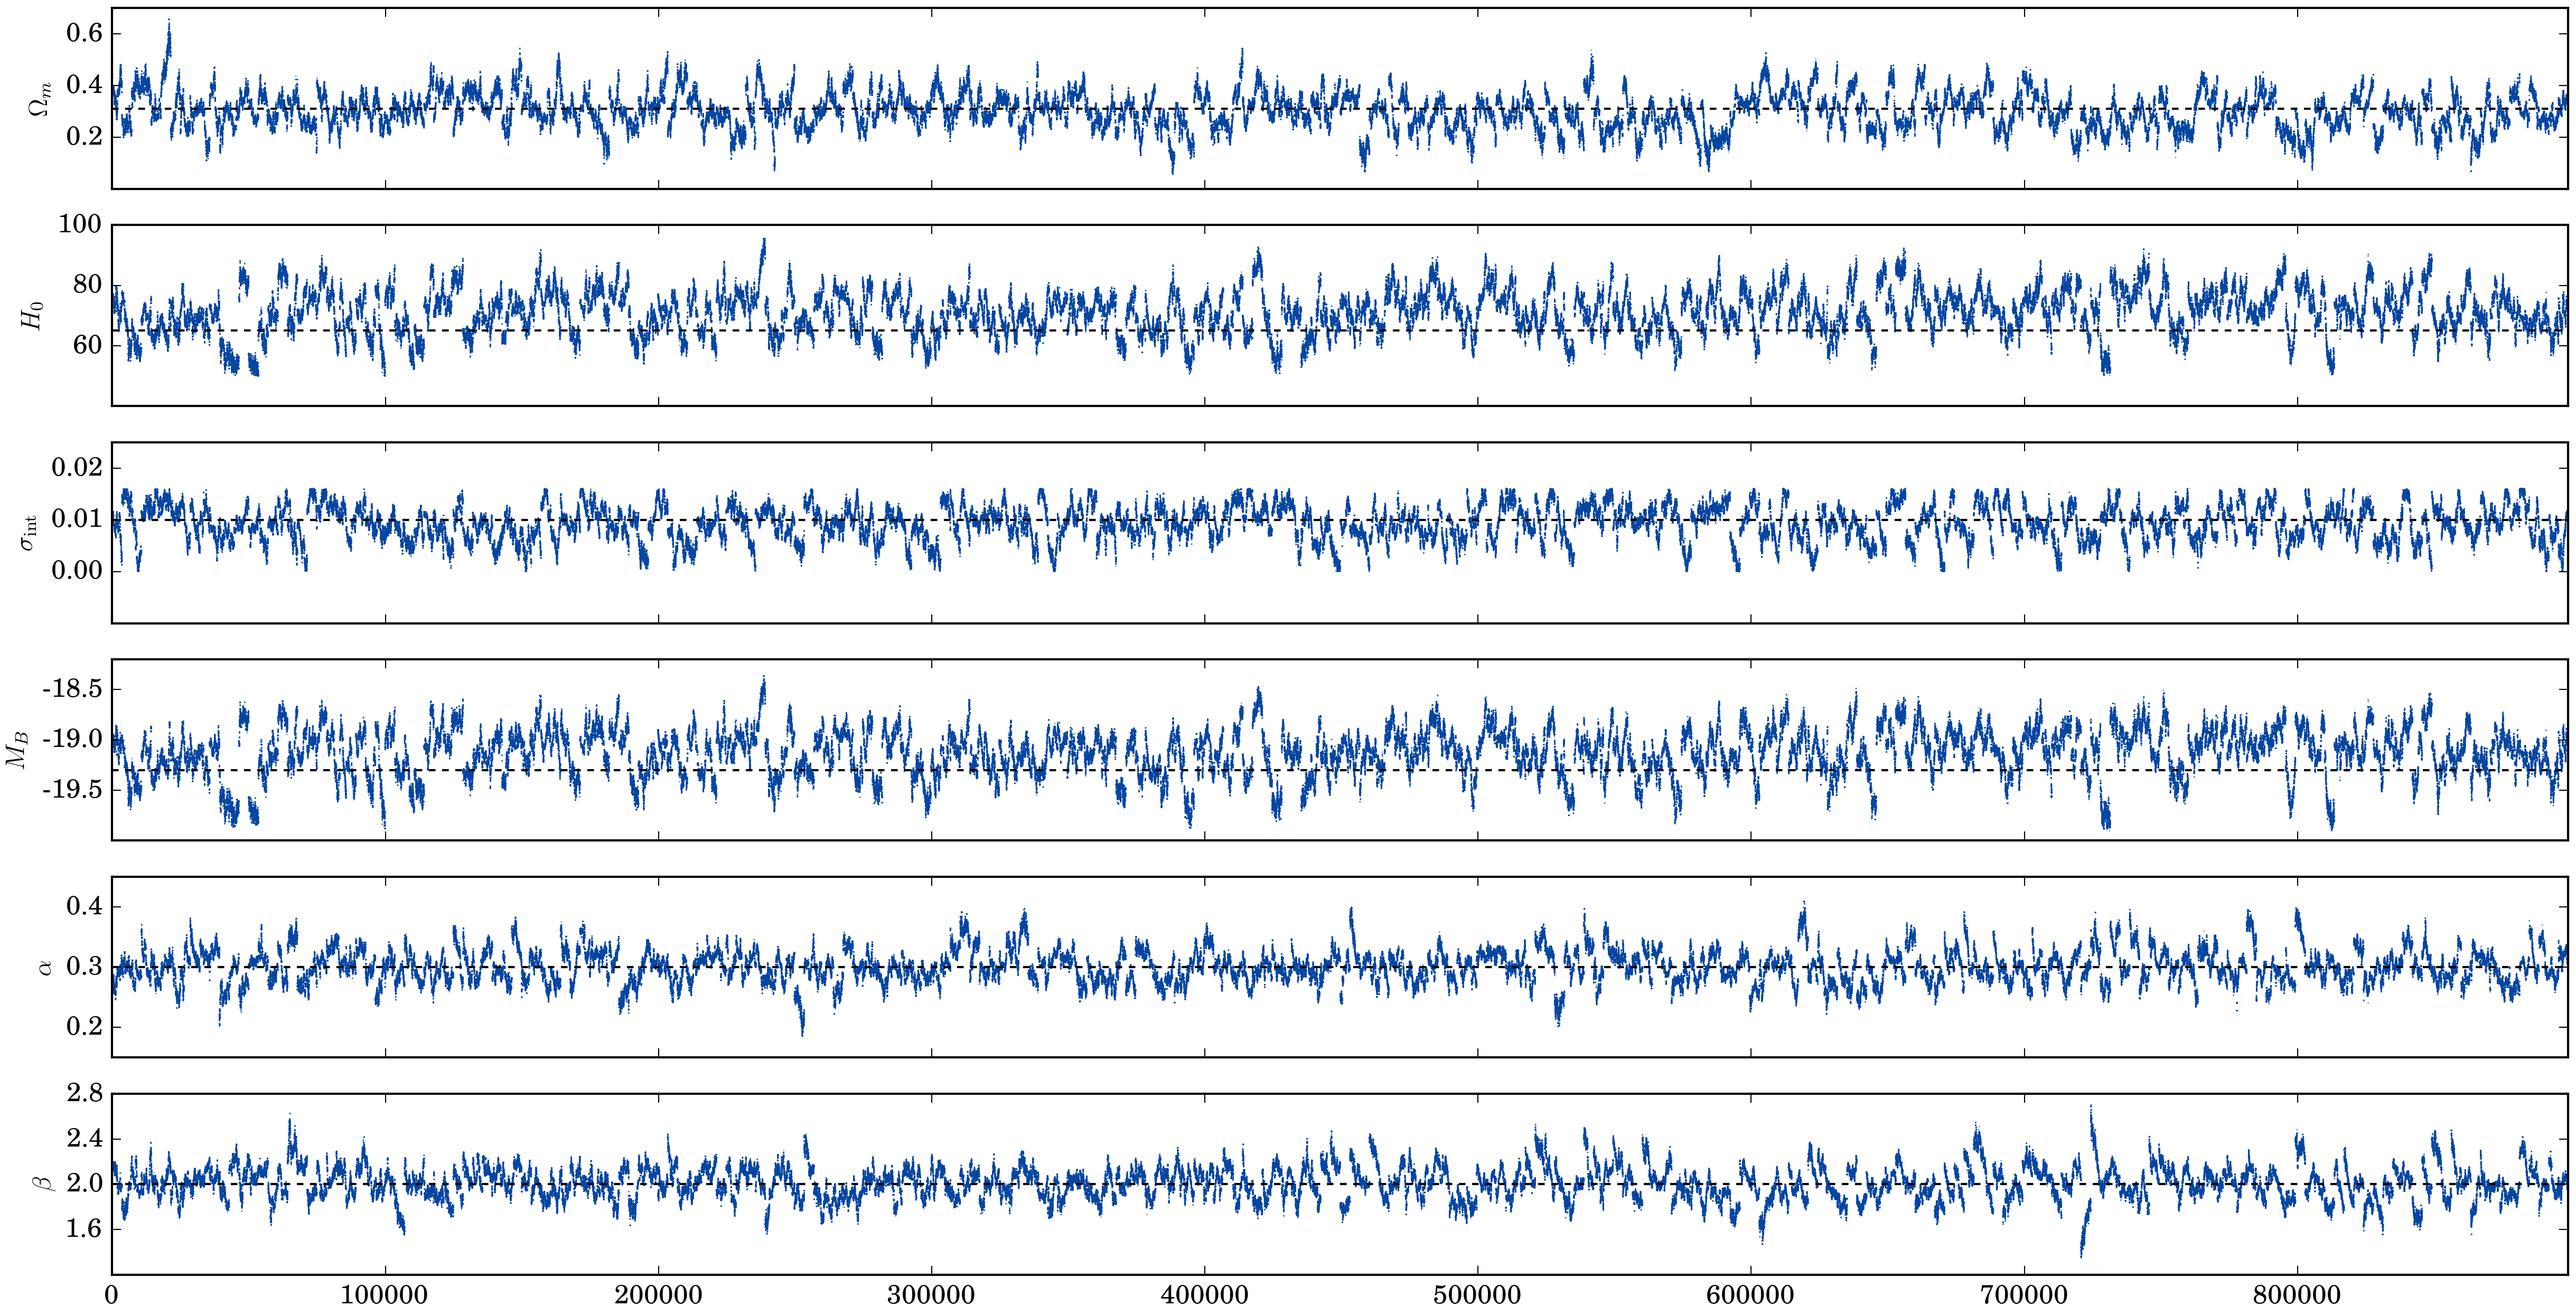
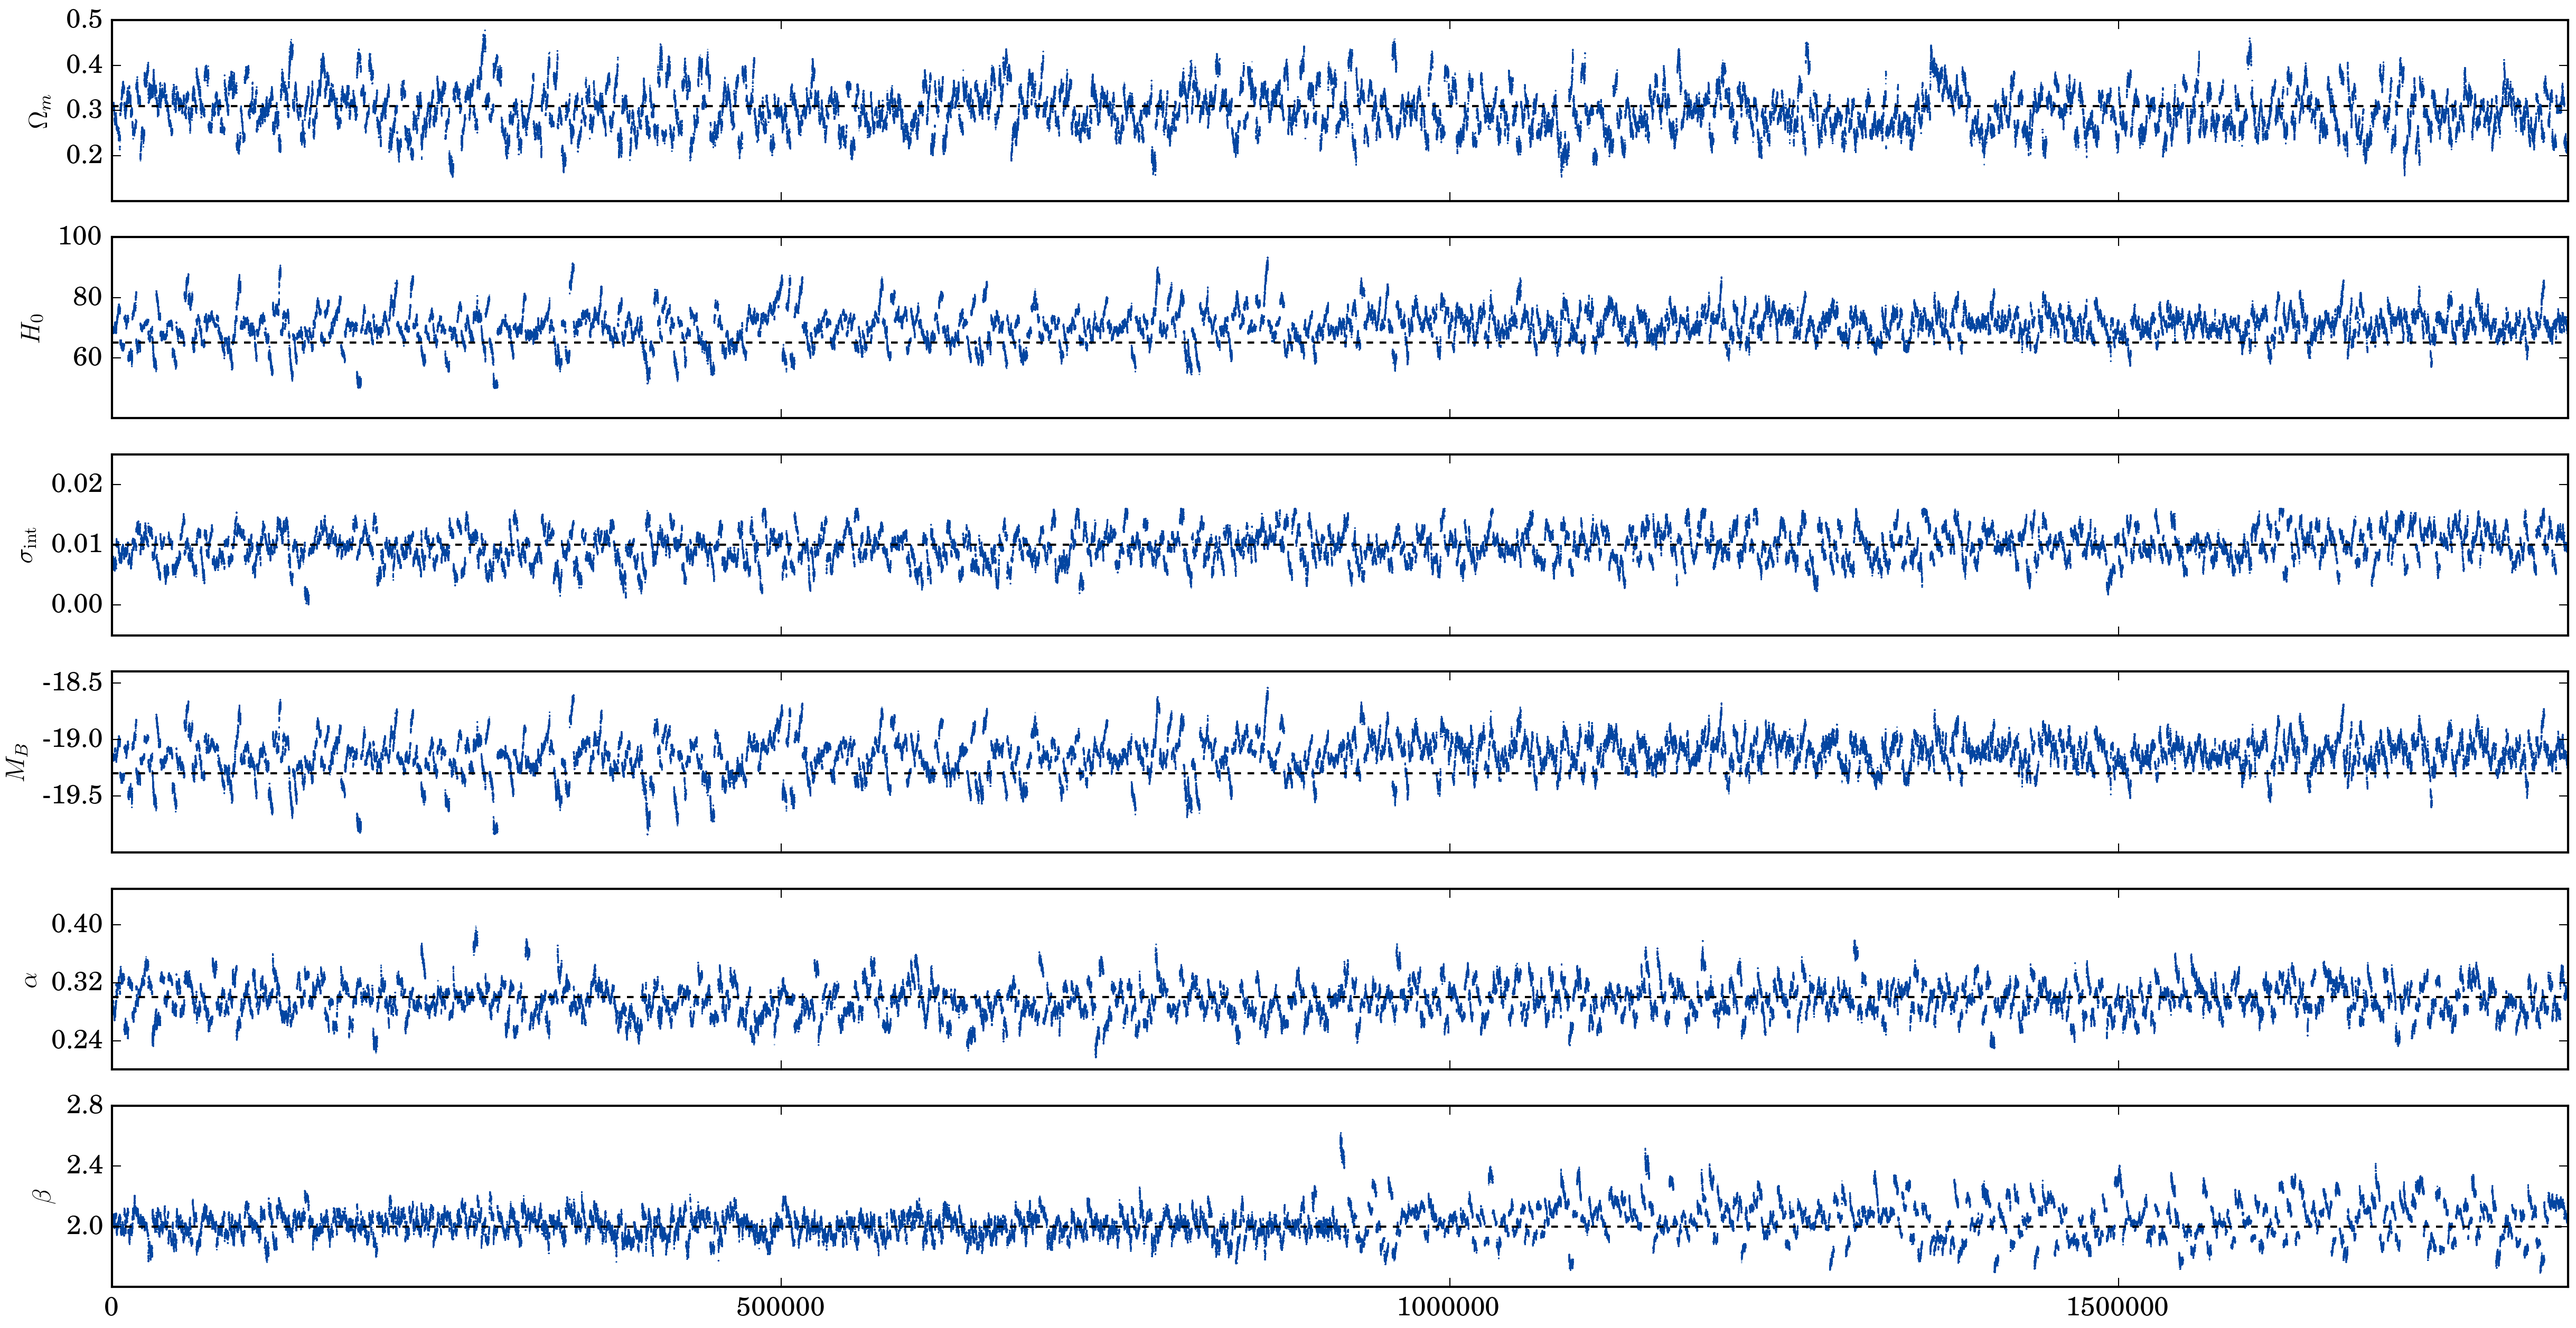
Updating to 100nova

diff --git a/dessn/models/a_pure_snia/a_model.py b/dessn/models/a_pure_snia/a_model.py
@@ -1,18 +1,18 @@
 import logging
 import os
 import sys
+import numpy as np
 
-from dessn.models.b_mixed_types.edges import ToLightCurve, ToLuminosity, ToRate, ToRedshift, ToType
-from dessn.models.b_mixed_types.latent import Luminosity, Redshift, Type, Colour, PeakTime, Stretch
-from dessn.models.b_mixed_types.observed import ObservedRedshift, ObservedType, ObservedLightCurves
-from dessn.models.b_mixed_types.underlying import SupernovaRate, OmegaM, Hubble, SupernovaIaDist1, \
-    SupernovaIaDist2, SupernovaIIDist1, SupernovaIIDist2
+from dessn.models.a_pure_snia.edges import ToLightCurve, ToLuminosity, ToRedshift
+from dessn.models.a_pure_snia.latent import Luminosity, Redshift, Colour, PeakTime, Stretch
+from dessn.models.a_pure_snia.observed import ObservedRedshift, ObservedLightCurves
+from dessn.models.a_pure_snia.underlying import OmegaM, Hubble, SupernovaIaDist1, SupernovaIaDist2
 
 from dessn.framework.model import Model
-from dessn.models.b_mixed_types.simulation import Simulation
+from dessn.models.a_pure_snia.simulation import Simulation
 
 
-class ToyModel(Model):
+class PureModel(Model):
     """ A modified mixed_types framework. The likelihood surfaces and PGM framework are given below.
 
     Probabilities and framework details are recorded in the framework parameter and edge classes.
@@ -29,14 +29,12 @@ class ToyModel(Model):
 
     """
     def __init__(self, observations):
-        super(ToyModel, self).__init__("ToyModel")
+        super(PureModel, self).__init__("ToyModel")
 
         z_o = observations["z_o"]
         lcs_o = observations["lcs_o"]
-        type_o = observations["type_o"]
         n = len(z_o)
 
-        self.add_node(ObservedType(type_o))
         self.add_node(ObservedRedshift(z_o))
         self.add_node(ObservedLightCurves(lcs_o))
 
@@ -44,22 +42,16 @@ class ToyModel(Model):
         self.add_node(Hubble())
         self.add_node(SupernovaIaDist1())
         self.add_node(SupernovaIaDist2())
-        self.add_node(SupernovaIIDist1())
-        self.add_node(SupernovaIIDist2())
-        self.add_node(SupernovaRate())
 
         self.add_node(Luminosity(n=n))
         self.add_node(Stretch(n=n))
         self.add_node(PeakTime(n=n))
         self.add_node(Colour(n=n))
         self.add_node(Redshift(n=n))
-        self.add_node(Type(n=n))
 
         self.add_edge(ToLightCurve())
         self.add_edge(ToLuminosity())
         self.add_edge(ToRedshift())
-        self.add_edge(ToRate())
-        self.add_edge(ToType())
 
         self.finalise()
 
@@ -70,25 +62,25 @@ if __name__ == "__main__":
     else:
         logging.basicConfig(level=logging.DEBUG)
     dir_name = os.path.dirname(__file__)
-    temp_dir = os.path.abspath(dir_name + "/../../temp/toyModel")
-    plot_file = os.path.abspath(dir_name + "/../../plots/toyModelChain.png")
-    walk_file = os.path.abspath(dir_name + "/../../plots/toyModelWalks.png")
+    temp_dir = os.path.abspath(dir_name + "/output/data")
+    plot_file = os.path.abspath(dir_name + "/output/surface.png")
+    walk_file = os.path.abspath(dir_name + "/output/walk.png")
 
-    vals = {"num_days": 30, "omega_m": 0.28, "H0": 72, "snIa_luminosity": -19.3, "snIa_sigma": 0.1,
-            "snII_luminosity": -18, "snII_sigma": 0.2, "sn_rate": 0.5}
+    vals = {"num_transient": 20, "omega_m": 0.5, "H0": 85, "snIa_luminosity": -19.3,
+            "snIa_sigma": 0.001}
     simulation = Simulation()
     observations, theta = simulation.get_simulation(**vals)
-    toy_model = ToyModel(observations)
-    '''
+    model = PureModel(observations)
+
     if not only_data:
         np.random.seed(102)
-        pgm_file = os.path.abspath(dir_name + "/../../plots/toyModelPGM.png")
-        fig = toy_model.get_pgm(pgm_file)'''
+        pgm_file = os.path.abspath(dir_name + "/output/pgm.png")
+        fig = model.get_pgm(pgm_file)
 
-    toy_model.fit_model(num_steps=3029, num_burn=500, temp_dir=temp_dir, save_interval=60)
+    model.fit_model(num_steps=10000, num_burn=0, temp_dir=temp_dir, save_interval=60)
 
     if not only_data:
-        chain_consumer = toy_model.get_consumer()
+        chain_consumer = model.get_consumer()
         chain_consumer.configure_general(max_ticks=4, bins=0.7)
         chain_consumer.plot_walks(display=False, filename=walk_file, figsize=(20, 10), truth=theta)
         chain_consumer.plot(display=False, filename=plot_file, figsize="grow", truth=theta)

diff --git a/dessn/models/b_mixed_types/b_model.py b/dessn/models/b_mixed_types/b_model.py
@@ -3,16 +3,17 @@ import os
 import sys
 import numpy as np
 
-from dessn.models.a_pure_snia.edges import ToLightCurve, ToLuminosity, ToRedshift
-from dessn.models.a_pure_snia.latent import Luminosity, Redshift, Colour, PeakTime, Stretch
-from dessn.models.a_pure_snia.observed import ObservedRedshift, ObservedLightCurves
-from dessn.models.a_pure_snia.underlying import OmegaM, Hubble, SupernovaIaDist1, SupernovaIaDist2
+from dessn.models.b_mixed_types.edges import ToLightCurve, ToLuminosity, ToRate, ToRedshift, ToType
+from dessn.models.b_mixed_types.latent import Luminosity, Redshift, Type, Colour, PeakTime, Stretch
+from dessn.models.b_mixed_types.observed import ObservedRedshift, ObservedType, ObservedLightCurves
+from dessn.models.b_mixed_types.underlying import SupernovaRate, OmegaM, Hubble, SupernovaIaDist1, \
+    SupernovaIaDist2, SupernovaIIDist1, SupernovaIIDist2
 
 from dessn.framework.model import Model
-from dessn.models.a_pure_snia.simulation import Simulation
+from dessn.models.b_mixed_types.simulation import Simulation
 
 
-class PureModel(Model):
+class ToyModel(Model):
     """ A modified mixed_types framework. The likelihood surfaces and PGM framework are given below.
 
     Probabilities and framework details are recorded in the framework parameter and edge classes.
@@ -29,12 +30,14 @@ class PureModel(Model):
 
     """
     def __init__(self, observations):
-        super(PureModel, self).__init__("ToyModel")
+        super(ToyModel, self).__init__("ToyModel")
 
         z_o = observations["z_o"]
         lcs_o = observations["lcs_o"]
+        type_o = observations["type_o"]
         n = len(z_o)
 
+        self.add_node(ObservedType(type_o))
         self.add_node(ObservedRedshift(z_o))
         self.add_node(ObservedLightCurves(lcs_o))
 
@@ -42,16 +45,22 @@ class PureModel(Model):
         self.add_node(Hubble())
         self.add_node(SupernovaIaDist1())
         self.add_node(SupernovaIaDist2())
+        self.add_node(SupernovaIIDist1())
+        self.add_node(SupernovaIIDist2())
+        self.add_node(SupernovaRate())
 
         self.add_node(Luminosity(n=n))
         self.add_node(Stretch(n=n))
         self.add_node(PeakTime(n=n))
         self.add_node(Colour(n=n))
         self.add_node(Redshift(n=n))
+        self.add_node(Type(n=n))
 
         self.add_edge(ToLightCurve())
         self.add_edge(ToLuminosity())
         self.add_edge(ToRedshift())
+        self.add_edge(ToRate())
+        self.add_edge(ToType())
 
         self.finalise()
 
@@ -62,25 +71,25 @@ if __name__ == "__main__":
     else:
         logging.basicConfig(level=logging.DEBUG)
     dir_name = os.path.dirname(__file__)
-    temp_dir = os.path.abspath(dir_name + "/output/pure_snia")
-    plot_file = os.path.abspath(dir_name + "/output/pure_snia.png")
-    walk_file = os.path.abspath(dir_name + "/output/pure_snia_walk.png")
+    temp_dir = os.path.abspath(dir_name + "/output/data")
+    plot_file = os.path.abspath(dir_name + "/output/surface.png")
+    walk_file = os.path.abspath(dir_name + "/output/walk.png")
 
-    vals = {"num_transient": 20, "omega_m": 0.5, "H0": 85, "snIa_luminosity": -19.3,
-            "snIa_sigma": 0.001}
+    vals = {"num_days": 30, "omega_m": 0.28, "H0": 72, "snIa_luminosity": -19.3, "snIa_sigma": 0.1,
+            "snII_luminosity": -18, "snII_sigma": 0.2, "sn_rate": 0.5}
     simulation = Simulation()
     observations, theta = simulation.get_simulation(**vals)
-    model = PureModel(observations)
+    toy_model = ToyModel(observations)
 
     if not only_data:
         np.random.seed(102)
-        pgm_file = os.path.abspath(dir_name + "/output/pure_snia.png")
-        fig = model.get_pgm(pgm_file)
+        pgm_file = os.path.abspath(dir_name + "/output/pgm.png")
+        fig = toy_model.get_pgm(pgm_file)
 
-    model.fit_model(num_steps=10000, num_burn=0, temp_dir=temp_dir, save_interval=60)
+    toy_model.fit_model(num_steps=3029, num_burn=500, temp_dir=temp_dir, save_interval=60)
 
     if not only_data:
-        chain_consumer = model.get_consumer()
+        chain_consumer = toy_model.get_consumer()
         chain_consumer.configure_general(max_ticks=4, bins=0.7)
         chain_consumer.plot_walks(display=False, filename=walk_file, figsize=(20, 10), truth=theta)
         chain_consumer.plot(display=False, filename=plot_file, figsize="grow", truth=theta)

diff --git a/dessn/models/a_pure_snia/edges.py b/dessn/models/a_pure_snia/edges.py
@@ -6,7 +6,8 @@ import sncosmo
 
 class ToLightCurve(Edge):
     def __init__(self):
-        super(ToLightCurve, self).__init__("olc", ["redshift", "luminosity", "x1", "t0", "c", "omega_m", "H0"])
+        super(ToLightCurve, self).__init__("olc", ["redshift", "luminosity", "x1",
+                                                   "t0", "c", "omega_m", "H0"])
         self.model = sncosmo.Model(source="salt2")
         self.current_h0 = None
         self.current_omega_m = None
@@ -46,24 +47,29 @@ class ToLuminosity(Edge):
     def get_log_likelihood(self, data):
         r""" Assume type is "Ia" for a Type SnIa, or "II" for SnII.
 
-        If we have a type SnIa supernova, we use the type SnIa distribution, which is modelled as a gaussian.
+        If we have a type SnIa supernova, we use the type SnIa distribution, which is
+        modelled as a gaussian.
 
         We should also note clearly that luminosity here is actually peak absolute magnitude
 
         .. math::
-            P(L|\mu_{\rm SnIa}, \sigma_{\rm SnIa}) = \frac{1}{\sqrt{2\pi}\sigma_{\rm SnIa}} \exp\left( - \frac{(L - \mu_{\rm SnIa})^2}{2\sigma_{\rm SnIa}} \right)
+            P(L|\mu_{\rm SnIa}, \sigma_{\rm SnIa}) = \frac{1}{\sqrt{2\pi}\sigma_{\rm SnIa}}
+            \exp\left( - \frac{(L - \mu_{\rm SnIa})^2}{2\sigma_{\rm SnIa}} \right)
 
-        If we have a type SnII supernova, we use the type SnII distribution, which is also modelled as a gaussian.
+        If we have a type SnII supernova, we use the type SnII distribution, which is also
+        modelled as a gaussian.
 
         .. math::
-            P(L|\mu_{\rm SnII}, \sigma_{\rm SnII}) = \frac{1}{\sqrt{2\pi}\sigma_{\rm SnII}} \exp\left( - \frac{(L - \mu_{\rm SnII})^2}{2\sigma_{\rm SnII}} \right)
+            P(L|\mu_{\rm SnII}, \sigma_{\rm SnII}) = \frac{1}{\sqrt{2\pi}\sigma_{\rm SnII}}
+            \exp\left( - \frac{(L - \mu_{\rm SnII})^2}{2\sigma_{\rm SnII}} \right)
 
         """
 
         luminosity = data["luminosity"]
         snIa_mean = data["snIa_luminosity"]
         snIa_std = data["snIa_sigma"]
-        snIa_prob = (-(luminosity - snIa_mean) * (luminosity - snIa_mean) / (2 * snIa_std * snIa_std)) - np.log(self.sqrt2pi * snIa_std)
+        snIa_prob = (-(luminosity - snIa_mean) * (luminosity - snIa_mean) /
+                     (2 * snIa_std * snIa_std)) - np.log(self.sqrt2pi * snIa_std)
         return snIa_prob
 
 

diff --git a/dessn/models/c_pure_snia_simplified/c_model.py b/dessn/models/c_pure_snia_simplified/c_model.py
@@ -67,7 +67,7 @@ if __name__ == "__main__":
     plot_file = os.path.abspath(dir_name + "/output/surface.png")
     walk_file = os.path.abspath(dir_name + "/output/walk.png")
 
-    vals = {"num_transient": 40, "omega_m": 0.31, "H0": 65, "snIa_luminosity": -19.3,
+    vals = {"num_transient": 100, "omega_m": 0.31, "H0": 65, "snIa_luminosity": -19.3,
             "snIa_sigma": 0.01, "alpha": 0.3, "beta": 2.0}
     simulation = Simulation()
     observations, theta = simulation.get_simulation(**vals)
@@ -75,10 +75,10 @@ if __name__ == "__main__":
 
     if not only_data:
         np.random.seed(102)
-        pgm_file = os.path.abspath(dir_name + "/output/pure_snia.png")
+        pgm_file = os.path.abspath(dir_name + "/output/pgm.png")
         # fig = model.get_pgm(pgm_file)
 
-    model.fit_model(num_steps=4368, num_burn=800, temp_dir=temp_dir, save_interval=60)
+    model.fit_model(num_steps=4000, num_burn=1000, temp_dir=temp_dir, save_interval=60)
 
     if not only_data:
         chain_consumer = model.get_consumer()

diff --git a/dessn/models/c_pure_snia_simplified/edges.py b/dessn/models/c_pure_snia_simplified/edges.py
@@ -18,8 +18,8 @@ class ToParameters(Edge):
         {\left| \sqrt{2 \pi \hat{C}} \right| }
     """
     def __init__(self):
-        super(ToParameters, self).__init__(["mb", "x1", "c"], ["mb_o", "x1_o", "c_o",
-                                                               "inv_cov", "cov"])
+        super(ToParameters, self).__init__(["mb_o", "x1_o", "c_o", "inv_cov", "cov"],
+                                           ["mb", "x1", "c"])
 
     def get_log_likelihood(self, data):
         ls = []

diff --git a/dessn/models/c_pure_snia_simplified/__init__.py b/dessn/models/c_pure_snia_simplified/__init__.py
@@ -12,7 +12,7 @@ modulus can then be combined with the cosmological distance modulus,
 which is given as a function of the observed supernova redshift and
 cosmological parameters. Graphically, the model is represented as follows.
 
-.. figure::     ../dessn/models/c_pure_snia_simplified/output/pure_snia.png
+.. figure::     ../dessn/models/c_pure_snia_simplified/output/pgm.png
     :align:     center
 
 

diff --git a/dessn/chain/chain.py b/dessn/chain/chain.py
@@ -830,7 +830,7 @@ class ChainConsumer(object):
         return fig, axes, params1, params2, extents
 
     def _get_bins(self):
-        proposal = [max(20, np.floor(1.2 * np.power(chain.shape[0] / chain.shape[1], 0.3)))
+        proposal = [max(20, np.floor(1.2 * np.power(chain.shape[0] / chain.shape[1], 0.25)))
                     for chain in self.chains]
         return proposal
 
